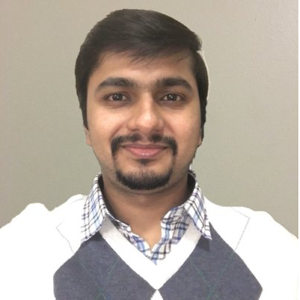
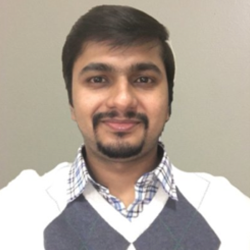
Adding responsive properties

diff --git a/index.html b/index.html
@@ -29,20 +29,41 @@
                                                                           class="octicon octicon-link"></span></a>Contributors
     </h3>
 
-    <ul class="contributors">
-        <li>
+    <div class="contributors">
+        <div>
             <a href="https://www.linkedin.com/in/ashwinbansod" class="user-mention">
                 <img src="images/Ashwin.png">
-                Ashwin Bansod</a></li>
-        <li>
+                <br>Ashwin Bansod</a>
+            <p class="contributors-description">
+                Computer Science graduate student at University of Illinois at Chicago with over 3.8 years of experience
+                in
+                software development, product release, requirement gathering, client interaction. Experience in
+                financial
+                services, stock markets developing low latency high throughput trading system.
+        </div>
+        <div>
             <a href="https://www.linkedin.com/in/krutarthjoshi18" class="user-mention">
                 <img src="images/Krutarth.png">
-                Krutarth Joshi</a></li>
-        <li>
+                <br>Krutarth Joshi</a>
+            <p class="contributors-description">
+                Pursuing Masters of Science in Computer Science at University of Illinois at Chicago with specialization
+                in
+                Machine Learning and Data Science.
+                Researched various supervised machine learning techniques, and applied them to
+                create an alarm generation system to detect and hence, predict and prevent bearing failures in
+                aero-derivative engines.
+        </div>
+        <div>
             <a href="https://www.linkedin.com/in/kushagrathapar" class="user-mention">
                 <img src="images/Kushagra.png">
-                Kushagra Thapar</a></li>
-    </ul>
+                <br>Kushagra Thapar</a>
+            <p class="contributors-description">
+                Software Developer with 3 years of experience in web application development, web services, database
+                designs, designing product architecture from scratch.
+                Currently pursuing Masters of Science in Computer Science from University of Illinois at Chicago with
+                specialization in Artificial Intelligence
+        </div>
+    </div>
 
     <footer class="site-footer">
 

diff --git a/stylesheets/stylesheet.css b/stylesheets/stylesheet.css
@@ -9,6 +9,7 @@ body {
     font-size: 16px;
     line-height: 1.5;
     color: #606c71;
+    min-width: 400px;
 }
 
 a {
@@ -348,10 +349,14 @@ a:hover {
 }
 
 .contributors img {
-    height: 200px;
+    width: 60%;
 }
 
-.contributors li {
-    display: inline-block; width: 30%;
-    padding: 0 5px;
+.contributors div {
+    display: inline-table;
+    width: 30%;
+    padding: 0 8px;
+}
+.contributors-description {
+
 }
